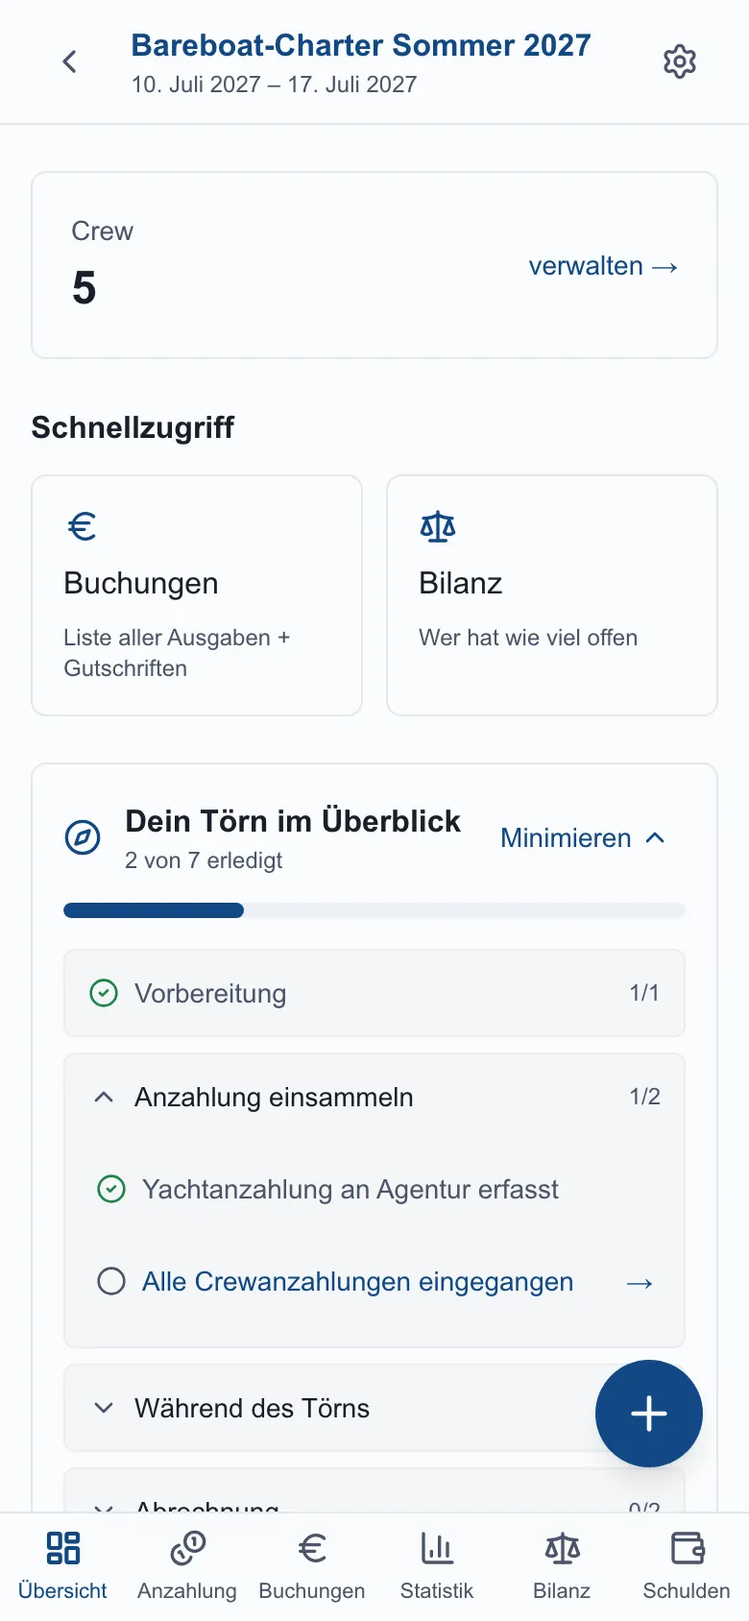
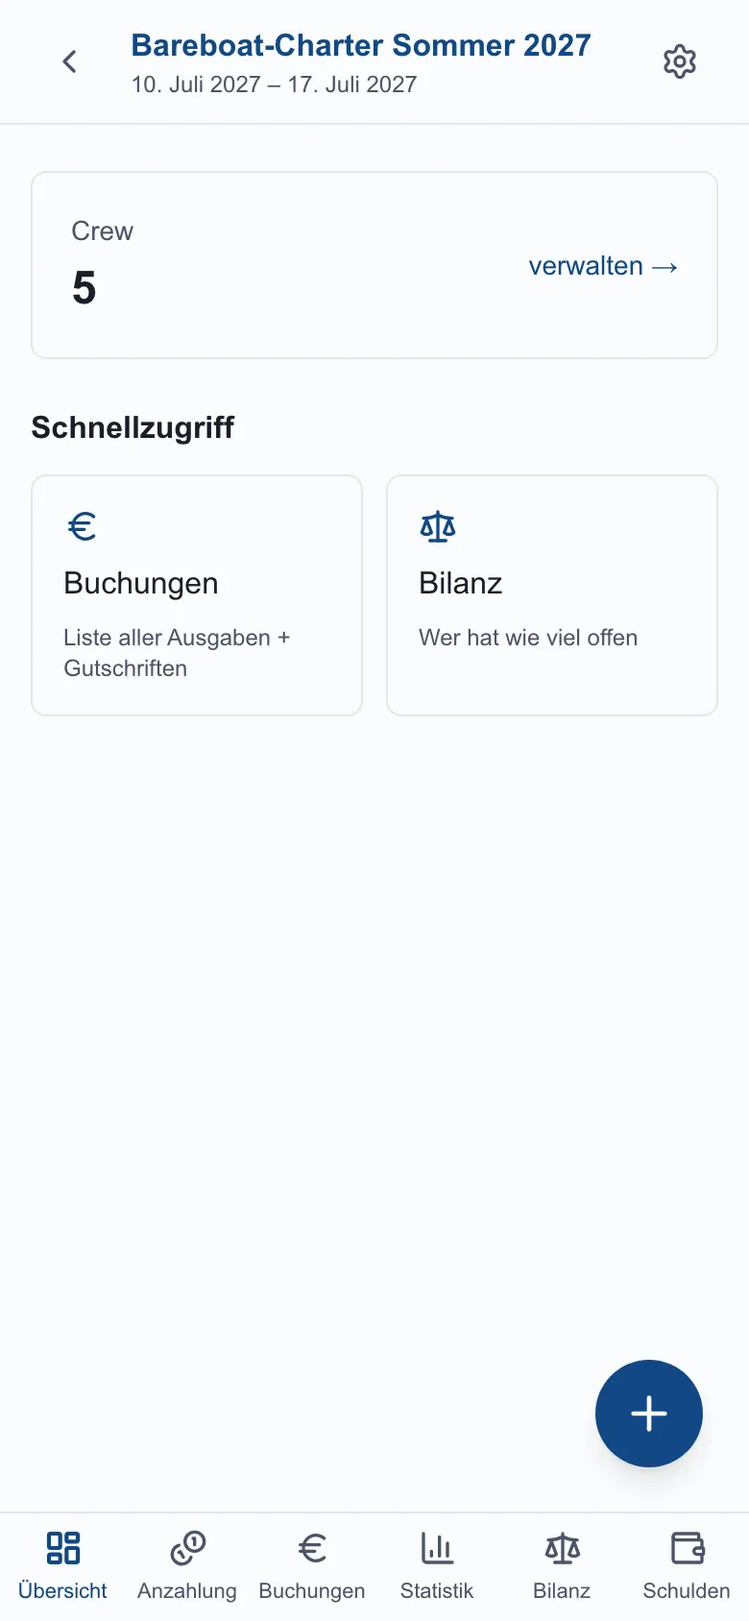
Begriff „Agentur" → „Vercharterer"; /about-Screenshots neu + Crew-Sicht (#161)
- Empfänger der Yachtanzahlung durchgängig als „Vercharterer" benannt
  (Törn-Fortschritt-Checkliste, /about, Bilanz-Info, Anzahlungs-Matrix-
  Tooltips, Charter-Reminder-Mail) inkl. Doku-Sync (CLAUDE.md, README,
  docs/prepayments.md). Interne Code-Identifier (*_agency) unverändert.
- /about-Screenshot „Startseite des Törns" (04) jetzt aus Crew-Sicht
  (Clara) → ohne die skipper-only Karte „Dein Törn im Überblick".
- About-Screenshots neu aufgenommen (04, 18 + date-/seed-getriebene Re-Renders).
- Lead-Text „Startseite des Törns" an die echte Crew-Ansicht angepasst
  (Schnellzugriff = Buchungen + Bilanz, Rest über die Navigationsleiste).

diff --git a/webapp/lib/email/charter-reminder-template.ts b/webapp/lib/email/charter-reminder-template.ts
@@ -1,13 +1,13 @@
 /**
  * Mail an den Vorstrecker — Erinnerung an die ANSTEHENDE eigene Überweisung
- * an die Charteragentur. Wird ausgelöst entweder vom Cron (3 Tage vor
+ * an den Vercharterer. Wird ausgelöst entweder vom Cron (3 Tage vor
  * Charter-Fälligkeit) oder manuell vom 🔔-Button in seiner Matrix-Zeile.
  *
  * Per Tranche zeigen wir:
- *   - Soll (Charteragentur)         = totalAmount × percent / 100
- *   - Crewbeiträge bei mir         = was die Crew bisher gezahlt hat
- *   - Bereits an Agentur überwiesen = expense-Buchung mit dieser Tranche
- *   - Noch offen                    = soll − bereits überwiesen
+ *   - Soll (Vercharterer)              = totalAmount × percent / 100
+ *   - Crewbeiträge bei mir            = was die Crew bisher gezahlt hat
+ *   - Bereits an Vercharterer überwiesen = expense-Buchung mit dieser Tranche
+ *   - Noch offen                       = soll − bereits überwiesen
  *
  * Layout über `mail-shell.ts`.
  */
@@ -17,10 +17,10 @@ import { renderMailShell, renderActionButton, renderHintBlock, escapeHtml, fmtEu
 export type CharterReminderTranche = {
   label: string;
   charter_due_date: string;        // formatiert "15.07.2026"
-  soll_to_agency: number;          // Soll der Agentur (für diese Tranche)
+  soll_to_agency: number;          // Soll des Vercharterers (für diese Tranche)
   crew_paid_to_advancer: number;   // Σ Crewbeiträge bei dir
   crew_total_due: number;          // Σ Crewsoll (zum Vergleich)
-  paid_to_agency: number;          // schon an Agentur überwiesen
+  paid_to_agency: number;          // schon an Vercharterer überwiesen
   remaining_to_agency: number;     // noch offen
 };
 
@@ -44,8 +44,8 @@ export function renderCharterReminderMail(p: CharterReminderParams): {
     : `Charteranzahlung – Übersicht: ${p.tripName}`;
   const headline = p.isAutomated ? "Charteranzahlung steht an" : "Charteranzahlung – Übersicht";
   const introText = p.isAutomated
-    ? `in den nächsten Tagen wird deine Anzahlung an die Charteragentur fällig. Hier eine Übersicht, was bei dir ankommt und was du noch überweisen musst.`
-    : `hier dein aktueller Stand für die Anzahlung an die Charteragentur: was bei dir ankommt und was du noch überweisen musst.`;
+    ? `in den nächsten Tagen wird deine Anzahlung an den Vercharterer fällig. Hier eine Übersicht, was bei dir ankommt und was du noch überweisen musst.`
+    : `hier dein aktueller Stand für die Anzahlung an den Vercharterer: was bei dir ankommt und was du noch überweisen musst.`;
 
   const trancheRows = p.tranches
     .map((t) => {
@@ -65,7 +65,7 @@ export function renderCharterReminderMail(p: CharterReminderParams): {
                     </div>
                     <table role="presentation" width="100%" cellpadding="0" cellspacing="0" border="0" style="margin-top:6px;font-size:13px;">
                       <tr>
-                        <td style="padding:2px 0;color:#587EA8;">Soll Agentur:</td>
+                        <td style="padding:2px 0;color:#587EA8;">Soll Vercharterer:</td>
                         <td style="padding:2px 0;text-align:right;font-weight:600;">${fmtEuro(t.soll_to_agency)}</td>
                       </tr>
                       <tr>
@@ -73,7 +73,7 @@ export function renderCharterReminderMail(p: CharterReminderParams): {
                         <td style="padding:2px 0;text-align:right;">${fmtEuro(t.crew_paid_to_advancer)} <span style="color:#587EA8;">von ${fmtEuro(t.crew_total_due)}</span></td>
                       </tr>
                       <tr>
-                        <td style="padding:2px 0;color:#587EA8;">An Agentur überwiesen:</td>
+                        <td style="padding:2px 0;color:#587EA8;">An Vercharterer überwiesen:</td>
                         <td style="padding:2px 0;text-align:right;">${fmtEuro(t.paid_to_agency)}</td>
                       </tr>
                       <tr>
@@ -121,13 +121,13 @@ export function renderCharterReminderMail(p: CharterReminderParams): {
             </tr>
 ${renderActionButton(p.appUrl, "In der Bordkasse ansehen")}
 ${renderHintBlock(
-  "Sobald du an die Agentur überwiesen hast, erfasse die Überweisung als neue Ausgabe und ordne sie der passenden Tranche zu, sie taucht dann hier korrekt an.",
+  "Sobald du an den Vercharterer überwiesen hast, erfasse die Überweisung als neue Ausgabe und ordne sie der passenden Tranche zu, sie taucht dann hier korrekt an.",
 )}`;
 
   const html = renderMailShell({
     title: subject,
     preheader: totalRemaining > 0.005
-      ? `Noch ${fmtEuro(totalRemaining)} an die Charteragentur überweisen — ${p.tripName}`
+      ? `Noch ${fmtEuro(totalRemaining)} an den Vercharterer überweisen — ${p.tripName}`
       : `Alle Charteranzahlungen für ${p.tripName} sind vollständig überwiesen.`,
     subtitle: p.tripName,
     body,
@@ -137,9 +137,9 @@ ${renderHintBlock(
     .map(
       (t) =>
         `  - ${t.label} (Charterfrist ${t.charter_due_date}):
-      Soll Agentur:      ${fmtEuro(t.soll_to_agency)}
-      Crew bei dir:      ${fmtEuro(t.crew_paid_to_advancer)} von ${fmtEuro(t.crew_total_due)}
-      An Agentur:        ${fmtEuro(t.paid_to_agency)}
+      Soll Vercharterer:  ${fmtEuro(t.soll_to_agency)}
+      Crew bei dir:       ${fmtEuro(t.crew_paid_to_advancer)} von ${fmtEuro(t.crew_total_due)}
+      An Vercharterer:    ${fmtEuro(t.paid_to_agency)}
       NOCH ZU ÜBERWEISEN: ${fmtEuro(Math.max(0, t.remaining_to_agency))}`,
     )
     .join("\n\n");

diff --git a/webapp/scripts/take-screenshots.ts b/webapp/scripts/take-screenshots.ts
@@ -247,16 +247,13 @@ async function main() {
   console.log(`  ↳ Pfingst-Törn: ${tripId}`);
   console.log(`  ↳ Bareboat-Charter: ${tripCharterId}`);
 
-  // Trip-Übersicht bewusst vom Bareboat-Charter (Zukunft, läuft noch nicht):
-  // In der About-Flow-Reihenfolge steht die Übersicht früh (direkt nach
-  // „Trip anlegen"), da wäre der „Törn vorbei — Abrechnung verschicken"-Banner
-  // des bereits beendeten Pfingst-Törns verfrüht. Der Settlement-/Abrechnungs-
-  // Banner wird stattdessen im Schulden-Screenshot (08) gezeigt, der in der
-  // Abrechnungs-Phase sitzt.
-  console.log("→ Trip-Übersicht (Bareboat — Törn läuft noch)");
-  await page.goto(`${BASE_URL}/trips/${tripCharterId}`);
-  await waitForLoad(page);
-  await shot(page, "04-trip-overview");
+  // Hinweis: Screenshot „04-trip-overview" (Startseite des Törns) wird bewusst
+  // aus der CREW-Sicht (Clara, reguläres Mitglied) aufgenommen — siehe
+  // Clara-Block weiter unten. So zeigt die /about-Seite die Übersicht OHNE die
+  // skipper-only Karte „Dein Törn im Überblick" (die separat als Screenshot 18
+  // erscheint). Bewusst der Bareboat-Charter (Zukunft, läuft noch nicht), damit
+  // kein verfrühter „Törn vorbei — Abrechnung verschicken"-Banner auftaucht;
+  // der Settlement-Banner wird stattdessen im Schulden-Screenshot (08) gezeigt.
 
   console.log("→ Buchungs-Liste");
   await page.goto(`${BASE_URL}/trips/${tripId}/transactions`);
@@ -384,6 +381,26 @@ async function main() {
   console.log("→ Crew-Self-View — Re-Login als Clara");
   await logout(page, context);
   await loginAs(page, CREW_EMAIL);
+
+  // Startseite des Törns aus CREW-Sicht: reguläre Crewmitglieder sehen die
+  // Karte „Dein Törn im Überblick" NICHT (Skipper/Co-Skipper/Admin-only). Die
+  // Übersicht bleibt damit auf Header + Schnellzugriff-Kacheln beschränkt —
+  // genau das soll die /about-Seite für „Startseite des Törns" zeigen.
+  console.log("→ Startseite des Törns (Crew-Ansicht, ohne Törn-Fortschritt-Karte)");
+  await page.goto(`${BASE_URL}/trips/${tripCharterId}`);
+  await waitForLoad(page);
+  // PWA-Installations-Hinweis ausblenden (steht schon auf dem Welcome-Screenshot).
+  await page.evaluate(() => {
+    document.querySelectorAll('aside[role="note"]').forEach((el) => {
+      if (/installier/i.test(el.textContent ?? "")) {
+        (el as HTMLElement).style.display = "none";
+      }
+    });
+  });
+  await page.waitForTimeout(150);
+  await shot(page, "04-trip-overview");
+
+  console.log("→ Crew-Self-View — Anzahlungen");
   await page.goto(`${BASE_URL}/trips/${tripCharterId}/prepayments`);
   await waitForLoad(page);
   await shot(page, "17-anzahlung-crew-self");

diff --git a/webapp/app/api/cron/prepayment-reminders/route.ts b/webapp/app/api/cron/prepayment-reminders/route.ts
@@ -13,7 +13,7 @@ import { CREW_DUE_DAYS_BEFORE_CHARTER, addDays } from "@/lib/prepayments/dates";
  *                       Tranche. Vorstrecker wird übersprungen (eigene Mail).
  *
  *   - "advancer_3d"  → 3 Tage vor Charter-Fälligkeit (= echtes due_date in 3 Tagen)
- *                       an den Vorstrecker — nur wenn er der Agentur noch was
+ *                       an den Vorstrecker — nur wenn er dem Vercharterer noch was
  *                       schuldet. Hat er die Tranche bereits voll überwiesen,
  *                       wird übersprungen.
  *
@@ -82,7 +82,7 @@ export async function GET(request: NextRequest) {
   // Bulk-Load: alles für die betroffenen Trips/Tranchen parallel.
   // - confirmed payments aus v_prepayment_payments (für Soll-vs-Ist der Crew)
   // - pending self-reports aus v_prepayment_pending (zählen als "Person hat gemeldet")
-  // - charter expenses (Vorstrecker → Agentur) für advancer-skip
+  // - charter expenses (Vorstrecker → Vercharterer) für advancer-skip
   const [
     { data: trips },
     { data: plans },
@@ -155,7 +155,7 @@ export async function GET(request: NextRequest) {
     }
   }
 
-  // Wie viel hat der Vorstrecker schon an die Agentur überwiesen — pro Tranche?
+  // Wie viel hat der Vorstrecker schon an den Vercharterer überwiesen — pro Tranche?
   const paidToAgencyByTranche = new Map<string, number>();
   for (const e of charterExpenses ?? []) {
     if (e.tranche_id) {
@@ -186,7 +186,7 @@ export async function GET(request: NextRequest) {
     // Wie viele Tage sind es noch bis zur Charterfrist?
     const daysToCharter = daysBetween(todayIso, t.due_date);
 
-    // advancer_3d: ab 3 Tage vor Charterfrist UND nur wenn er der Agentur noch was schuldet
+    // advancer_3d: ab 3 Tage vor Charterfrist UND nur wenn er dem Vercharterer noch was schuldet
     if (daysToCharter <= REMINDER_DAYS_BEFORE) {
       const sollAgency = (Number(plan.total_amount) * Number(t.percent)) / 100;
       const paidAgency = paidToAgencyByTranche.get(t.id) ?? 0;

diff --git a/webapp/app/trips/[id]/balance/page.tsx b/webapp/app/trips/[id]/balance/page.tsx
@@ -57,7 +57,7 @@ export default async function BalancePage({
         {hasPlan && (
           <InfoTooltip
             label="Bilanzblöcke erklärt"
-            text="Diese Bilanz hat zwei Töpfe: „Anzahlung“ ist das Geld für die Yachtcharter, das vorab an die Agentur gezahlt wird. „Bordkasse“ sind die laufenden Kosten während des Törns (Sprit, Hafen, Essen). „Gesamt“ fasst beide zusammen. Das ist unterm Strich dein Saldo."
+            text="Diese Bilanz hat zwei Töpfe: „Anzahlung“ ist das Geld für die Yachtcharter, das vorab an den Vercharterer gezahlt wird. „Bordkasse“ sind die laufenden Kosten während des Törns (Sprit, Hafen, Essen). „Gesamt“ fasst beide zusammen. Das ist unterm Strich dein Saldo."
           />
         )}
       </h1>
@@ -101,7 +101,7 @@ function PrepaymentsSummary({
   tripId: string;
   poolBalances: PrepaymentPoolBalance[];
   nameById: Map<string, string>;
-  /** Gesamt-Anzahlungssumme aus dem Plan (= Charter-Preis ggü. Agentur). */
+  /** Gesamt-Anzahlungssumme aus dem Plan (= Charter-Preis ggü. Vercharterer). */
   planTotal: number;
   /** Σ aller Charter-Überweisungen (Vorstrecker → Vercharterer). */
   charterPaid: number;
@@ -111,7 +111,7 @@ function PrepaymentsSummary({
   const sumPaid = poolBalances.reduce((s, p) => s + Math.min(p.paid, p.soll), 0);
   const sumOpen = Math.max(0, sumSoll - sumPaid);
 
-  // Charterauslage: was wurde an die Agentur überwiesen vs. Soll
+  // Charterauslage: was wurde an den Vercharterer überwiesen vs. Soll
   const charterSoll = planTotal;
   const charterOpen = Math.max(0, charterSoll - charterPaid);
   const charterFulfilled = charterSoll > 0 && charterOpen <= 0.005;

diff --git a/webapp/app/about/page.tsx b/webapp/app/about/page.tsx
@@ -97,7 +97,7 @@ const features: Feature[] = [
   {
     id: "trip-overview",
     title: "Startseite des Törns",
-    lead: "Pro Törn ein eigener Bereich: Schnellzugriff auf Buchungen, Bilanz, Anzahlungen und Schulden.",
+    lead: "Pro Törn ein eigener Bereich mit Crew-Überblick und Schnellzugriff auf Buchungen und Bilanz; alle weiteren Bereiche sind über die feste Navigationsleiste erreichbar.",
     body: (
       <>
         <p>
@@ -319,7 +319,7 @@ const features: Feature[] = [
   {
     id: "anzahlung-setup",
     title: "Yachtanzahlung: Plan einrichten",
-    lead: "Wenn der Skipper Monate vor dem Törn die Charteranzahlung an die Agentur leistet, hilft die App, das Geld bei der Crew einzusammeln.",
+    lead: "Wenn der Skipper Monate vor dem Törn die Charteranzahlung an den Vercharterer leistet, hilft die App, das Geld bei der Crew einzusammeln.",
     body: (
       <>
         <p>
@@ -370,7 +370,7 @@ const features: Feature[] = [
         </p>
         <p className="mt-2">
           Daneben sieht die vorstreckende Person eine Übersicht, was sie noch an den
-          Charteranbieter überweisen muss, basierend auf dem, was die
+          Vercharterer überweisen muss, basierend auf dem, was die
           Crew schon bei ihr eingezahlt hat. 3 Tage vor jeder
           Charterfrist verschickt die App diese Übersicht zusätzlich
           per Mail; 3 Tage vor der Crewfrist gehen automatisch

diff --git a/webapp/app/trips/[id]/prepayments/matrix.tsx b/webapp/app/trips/[id]/prepayments/matrix.tsx
@@ -146,7 +146,7 @@ export function PrepaymentMatrix({ tripId, tripName, plan, tranches, cabins, mem
     ? members.find((m) => m.id === plan.advancer_person_id)?.display_name ?? "—"
     : null;
 
-  // Wie viel muss der Vorstrecker insgesamt noch an die Agentur überweisen?
+  // Wie viel muss der Vorstrecker insgesamt noch an den Vercharterer überweisen?
   // Steuert den 🔔-Button in seiner Zeile (Mail nur sinnvoll wenn offen).
   const charterOutstanding = tranches.reduce((sum, t) => {
     const soll = (plan.total_amount * t.percent) / 100;
@@ -528,8 +528,8 @@ function RowActions({
     ? !member.email
       ? "Für die vorstreckende Person ist keine E-Mail hinterlegt"
       : advancerNothingOpen
-        ? "Alles an die Agentur überwiesen, keine Erinnerung nötig"
-        : "Charterübersicht an dich selbst schicken (Σ Creweingänge / Soll Agentur / noch zu überweisen)"
+        ? "Alles an den Vercharterer überwiesen, keine Erinnerung nötig"
+        : "Charterübersicht an dich selbst schicken (Σ Creweingänge / Soll Vercharterer / noch zu überweisen)"
     : !member.email
       ? "E-Mail fehlt"
       : rowOpen <= 0.005

diff --git a/webapp/lib/email/send-prepayment-reminder.ts b/webapp/lib/email/send-prepayment-reminder.ts
@@ -4,7 +4,7 @@
  * Zwei Pfade:
  *   1. Crew-Pfad      → persönliche Tranchen-Liste mit Wero-Hinweis
  *                       (Empfänger ≠ Vorstrecker).
- *   2. Vorstrecker-Pfad → Charterübersicht (Soll Agentur / Creweingänge /
+ *   2. Vorstrecker-Pfad → Charterübersicht (Soll Vercharterer / Creweingänge /
  *                         schon überwiesen / noch offen) pro Tranche.
  *                         Wird auch vom Cron benutzt.
  *
@@ -239,7 +239,7 @@ async function sendCharterReminder(
     .filter((o) => o.person_id !== args.advancerPersonId)
     .reduce((s, o) => s + Number(o.total_amount), 0);
 
-  // Σ schon-an-Agentur-überwiesen pro Tranche (expense mit dieser tranche_id).
+  // Σ schon-an-Vercharterer-überwiesen pro Tranche (expense mit dieser tranche_id).
   const { data: expenseRows } = await supabase
     .from("transactions")
     .select("tranche_id, amount")

diff --git a/webapp/lib/queries/prepayments.ts b/webapp/lib/queries/prepayments.ts
@@ -139,7 +139,7 @@ export interface PaymentEntry {
  *   - für normale Crew:  Σ credit_given mit tranche_id (Zahlung an Vorstrecker)
  *   - für Vorstrecker:   Σ self_credit (Selbstverrechnung des eigenen Anteils)
  *
- * Charterauslagen (`paid_by` mit tranche_id, typisch Vorstrecker → Agentur)
+ * Charterauslagen (`paid_by` mit tranche_id, typisch Vorstrecker → Vercharterer)
  * zählen NICHT in `paid` — sie sind kein „Beitrag zum Crew-Pool", sondern
  * eine separate Bewegung „Geld aus Pool an Vercharterer". Wird in einem
  * eigenen Block angezeigt (siehe getCharterPaidTotal).

diff --git a/webapp/app/trips/[id]/layout.tsx b/webapp/app/trips/[id]/layout.tsx
@@ -28,7 +28,7 @@ export default async function TripLayout({
 
   // Kontextuelle Anzahlungs-Navigation: nur einblenden, solange der Eintrag
   // für diese Person gerade relevant ist (eigene/Crew-Tranche offen,
-  // Pending-Selbstmeldung oder Vorstrecker schuldet der Agentur noch).
+  // Pending-Selbstmeldung oder Vorstrecker schuldet dem Vercharterer noch).
   const isMyTripSkipper = !!members.find((m) => m.person_id === person?.id)?.is_skipper;
   const { show: showPrepayments } = await getPrepaymentNavState(id, {
     personId: person?.id ?? null,

diff --git a/webapp/lib/calc/trip-progress.ts b/webapp/lib/calc/trip-progress.ts
@@ -132,7 +132,7 @@ export function computeTripProgress(
     const anzahlungItems: ProgressItem[] = [
       {
         id: "charter-advance",
-        label: "Yachtanzahlung an Agentur erfasst",
+        label: "Yachtanzahlung an Vercharterer erfasst",
         status: statusFor(s.charterAdvancePaid, idx("anzahlung"), unlockedUpTo),
         href: "prepayments",
       },

diff --git a/webapp/lib/prepayments/dates.ts b/webapp/lib/prepayments/dates.ts
@@ -2,7 +2,7 @@
  * Datum-Helpers für das Anzahlungs-Modul.
  *
  * Konvention: `prepayment_tranches.due_date` ist das Charter-Fälligkeits-
- * Datum (Vorstrecker → Agentur). Die Crew bekommt einen 3-Tage-Puffer
+ * Datum (Vorstrecker → Vercharterer). Die Crew bekommt einen 3-Tage-Puffer
  * davor, damit der Vorstrecker das Geld rechtzeitig zusammen hat.
  */
 

diff --git a/CLAUDE.md b/CLAUDE.md
@@ -288,17 +288,17 @@ Schriften: Campton Bold (Display) → Arial Bold (H2) → Arial Regular (Body).
 - **Explizite Data-API-GRANTs (Migration 0022):** Supabase deprecatet ab 30.10.2026 die automatischen `GRANT`s auf neue Tabellen im public-Schema. Migration `0022_explicit_grants.sql` setzt deshalb für alle bestehenden Tabellen/Views/`simplify_debts()` explizite `GRANT … TO authenticated` und definiert via `ALTER DEFAULT PRIVILEGES` Defaults für künftige Tabellen. **Konsequenz für neue Migrationen:** `CREATE TABLE foo …` reicht aus, der GRANT kommt automatisch — kein manuelles `GRANT` pro Migration nötig. RLS-Policies aus 0004 filtern weiterhin pro Row.
 - **Anzahlungs-Modul** (Migrationen 0023–0028, Spec `docs/prepayments.md`): Mechanik für Yachtanzahlungen, die der Skipper Monate vor Törn-Start an die Charteragentur leistet und sich von der Crew rückerstatten lässt.
   - **Wizard** unter `/trips/[id]/prepayments/setup` (zwei Schritte): Aufteilung (`gleichmaessig` / `zeitanteilig` / `individuell` / `kojen`) + Vorstrecker-Auswahl + optional Kojen-Editor + WhatsApp-Vorlage; Schritt 2 = Tranchen-Liste mit Fälligkeit + Prozent (Σ = 100). Crew kann inline im Wizard angelegt werden (`CrewQuickAdd`). **Tranchen-Bezeichnung wird automatisch durchnummeriert** (`trancheLabel(index, total)` → alle bis auf die letzte „N. Anzahlung", die letzte „Endzahlung"; bei 1 Tranche → „Endzahlung") — kein freies Label-Feld mehr (schlankeres Design); das Label wird beim Speichern abgeleitet und in `prepayment_tranches.label` geschrieben. **Validierung:** „Weiter" (Schritt 1) ist bei Gesamtsumme 0 deaktiviert (für `gleichmaessig`/`zeitanteilig`), „Fertig stellen" (Schritt 2) bei Σ % ≠ 100. Editor-Zeilen stapeln auf Mobile (`grid-cols-1 sm:grid-cols-12`).
-  - **Matrix** unter `/trips/[id]/prepayments`: Person × Tranche mit Statussymbolen (○ offen, ◐ teilweise, ✓ bezahlt, ⏰ überfällig, ⏳ pending). Klick auf Zelle → Modal zur Zahlungs-Erfassung mit Überzahlungs-Splitting auf zweite Tranche. Pro Person-Zeile 🔔 (Erinnerungs-Mail) und 💬 (WhatsApp-Text). Sammelnachricht-Button oben. Charter-Reminder-Banner für den Vorstrecker zeigt, was er an die Agentur noch überweisen muss (mit Überfälligkeits-Indikator). Vorstrecker-Zeile trägt blaues „Streckt vor"-Badge, Bell/WhatsApp-Buttons sind in dieser Zeile deaktiviert.
+  - **Matrix** unter `/trips/[id]/prepayments`: Person × Tranche mit Statussymbolen (○ offen, ◐ teilweise, ✓ bezahlt, ⏰ überfällig, ⏳ pending). Klick auf Zelle → Modal zur Zahlungs-Erfassung mit Überzahlungs-Splitting auf zweite Tranche. Pro Person-Zeile 🔔 (Erinnerungs-Mail) und 💬 (WhatsApp-Text). Sammelnachricht-Button oben. Charter-Reminder-Banner für den Vorstrecker zeigt, was er an den Vercharterer noch überweisen muss (mit Überfälligkeits-Indikator). Vorstrecker-Zeile trägt blaues „Streckt vor"-Badge, Bell/WhatsApp-Buttons sind in dieser Zeile deaktiviert.
   - **Vorstrecker:** wer streckt die Yachtanzahlung vor (Default = Trip-Skipper, im Wizard editierbar). _Sprachregelung:_ „Vorstrecker" ist der interne Konzept-Name (Code-Identifier `advancer_*`, `requireSkipperAdminOrAdvancer`); in **Endnutzer-Texten (UI/Mail)** wird die Rolle geschlechtsneutral formuliert — Badge „Streckt vor", sonst „die vorstreckende Person" bzw. Verb „vorstrecken". Migration 0024 relaxed `tx_credit_self` für tranche-getaggte Credits, damit der Vorstrecker seinen eigenen Anteil als Selbst-Verrechnung abhaken kann (bilanzneutral). Der Vorstrecker darf abhaken, bestätigen, ablehnen und Erinnerungen verschicken — auch wenn er nicht Trip-Skipper ist (`requireSkipperAdminOrAdvancer` in `lib/auth/authz.ts`).
   - **Phase 2 — Crew-Selbstmeldung** (Migration 0025): Crew klickt in `/prepayments` „Ich habe gezahlt" → Eintrag mit `transactions.confirmed_at = NULL` (= pending). Vorstrecker bekommt eine Mail (`payment-pending-template.ts`) und sieht in der Matrix einen gelben Pending-Banner mit ✓ / ✗ Buttons. Der Banner-Eintrag zeigt nur „X hat Y € für N. Anzahlung gemeldet" + Datum — die Buchungs-Beschreibung wird bewusst NICHT angezeigt (redundant + teils irreführende Seed-/Default-Texte). Erst bei Bestätigung zählt der Eintrag in `v_prepayment_payments`. `transactions.confirmed_at` hat `DEFAULT now()` — normale Skipper-/Admin-Eingaben sind sofort bestätigt, nur `submitSelfPayment` schreibt explizit NULL.
-  - **Crew-Fälligkeit 3 Tage vor Charter:** `prepayment_tranches.due_date` ist die Charter-Fälligkeit (gegenüber Agentur). Überall, wo die Crew die Frist sieht (Matrix-Header, Crew-Self-View, Erinnerungs-Mail, WhatsApp), wird über `toCrewDueDate()` in `lib/prepayments/dates.ts` ein 3-Tage-Puffer abgezogen. Der Charter-Reminder-Banner zeigt weiterhin das echte Datum. `toCrewDueDate` **clampt** zusätzlich: die Crewfrist rutscht nicht in die Vergangenheit, solange die Charterfrist noch aussteht, und liegt nie nach der Charterfrist selbst (`today` als Parameter überschreibbar für deterministische Tests).
+  - **Crew-Fälligkeit 3 Tage vor Charter:** `prepayment_tranches.due_date` ist die Charter-Fälligkeit (gegenüber Vercharterer). Überall, wo die Crew die Frist sieht (Matrix-Header, Crew-Self-View, Erinnerungs-Mail, WhatsApp), wird über `toCrewDueDate()` in `lib/prepayments/dates.ts` ein 3-Tage-Puffer abgezogen. Der Charter-Reminder-Banner zeigt weiterhin das echte Datum. `toCrewDueDate` **clampt** zusätzlich: die Crewfrist rutscht nicht in die Vergangenheit, solange die Charterfrist noch aussteht, und liegt nie nach der Charterfrist selbst (`today` als Parameter überschreibbar für deterministische Tests).
   - **Bilanz Drei-Block-Übersicht** (in `/trips/[id]/balance` wenn ein Plan existiert): Anzahlungs-Pool / Bordkasse / Gesamt pro Person. Anzahlungs-Saldo = aktiv_beigetragen − soll (pragmatisch, nicht double-entry: credit_to des Vorstreckers zählt NICHT negativ bei ihm, weil treuhänderisch). Bordkasse-Saldo kommt aus separater View `v_balances_bordkasse_only` (Migration 0026, filtered auf `tranche_id IS NULL`). Untere Tabelle ist konsistent: zeigt nur Bordkasse-Buchungen wenn ein Plan existiert.
   - **Crew-Wechsel-Workflow:** `replaceMember` in `lib/actions/prepayments.ts` legt neue Person an, überträgt Obligation + Anwesenheit + Koje, erzeugt Gegen-Gutschriften für die bereits geleisteten Anzahlungen (B zahlt A privat aus → A geht auf 0 €, B rutscht in A's Position). Ghost-Crew ohne E-Mail-Adresse möglich; bei nachträglich eingetragener E-Mail wird der Ghost automatisch in den bestehenden Account integriert (`mergeGhostIntoExistingPerson` in `lib/actions/trip-members.ts`), außer real und Ghost wären beide schon Crew des selben Trips — dann Block mit klarer Meldung.
   - **Tranche-Dropdown in normaler Buchungs-/Gutschrift-Form** (`webapp/app/trips/[id]/transactions/new/transaction-form.tsx`): optional eine Tranche zuordnen, dann landet die Buchung im Anzahlungs-Pool (taucht nicht im Bordkasse-Saldo auf). Die Yachtanzahlung wird so erfasst.
   - **Auto-Merge bei Crew-E-Mail-Kollision:** Wenn beim Inline-Edit einer Ghost-Crew eine E-Mail nachgetragen wird, die schon zu einem bestehenden Account gehört, mergt die Action den Ghost automatisch in den bestehenden Account (alle transactions, prepayment_obligations, trip_members, audit_log, settled_debts werden umgehängt). Pre-Check: ist die echte Person bereits Mitglied desselben Trips → Block mit Aufforderung, manuell aufzuräumen.
   - **A11y:** alle interaktiven Zellen tragen einen vollen Kontext-`aria-label` („Lucas, Endzahlung: bezahlt, 180,00 € von 180,00 € bezahlt"), Status-Emojis sind `aria-hidden="true"`. Pending-Banner ist `role="region"`. Touch-Targets ≥ 44px.
-  - **Charter-Reminder-Mail an Vorstrecker** (`charter-reminder-template.ts`): wenn der 🔔-Button in der Vorstrecker-Zeile geklickt wird, schickt die App eine Charter-Übersicht statt einer persönlichen Tranchen-Liste — pro Tranche Soll Agentur, Σ Crew-Eingänge bei mir, schon-überwiesen, noch offen. `send-prepayment-reminder.ts` routet zwischen Crew-Pfad und Vorstrecker-Pfad anhand von `personId === advancer_person_id`.
-  - **Auto-Reminder-Cron** (Migration 0028 + `/api/cron/prepayment-reminders`, in `vercel.json` als täglicher Cron `0 7 * * *` eingetragen): verschickt **innerhalb der letzten 6 Tage vor Charterfrist** eine Reminder-Mail an offene Crewmitglieder (`crew_3d`, ab 6 Tagen = 3 Tage vor Crewfrist) und **innerhalb der letzten 3 Tage** eine Charter-Übersicht an den Vorstrecker (`advancer_3d`). Fenster statt exakter Tag, damit ein verpasster Cron-Tag (Deploy, Outage) keinen Reminder verliert. Dedup über `prepayment_reminder_log(tranche_id, person_id, reminder_type)` — pro Kombi höchstens ein Eintrag. **Pending-Awareness:** Crewmitglieder mit unbestätigter Selbstmeldung (`v_prepayment_pending`) werden NICHT erneut gemahnt — sie haben ihren Teil getan und warten auf den Vorstrecker. **Advancer-Skip:** der Vorstrecker bekommt keine `advancer_3d`-Mail mehr, wenn er die Tranche bereits voll an die Agentur überwiesen hat. **Reject räumt Dedup-Log:** bei Ablehnung einer Selbstmeldung (`rejectSelfPayment`) wird der `crew_3d`-Log-Eintrag gelöscht, sodass der Cron einen korrigierten Reminder verschicken kann. Abgelaufene Trips übersprungen.
+  - **Charter-Reminder-Mail an Vorstrecker** (`charter-reminder-template.ts`): wenn der 🔔-Button in der Vorstrecker-Zeile geklickt wird, schickt die App eine Charter-Übersicht statt einer persönlichen Tranchen-Liste — pro Tranche Soll Vercharterer, Σ Crew-Eingänge bei mir, schon-überwiesen, noch offen. `send-prepayment-reminder.ts` routet zwischen Crew-Pfad und Vorstrecker-Pfad anhand von `personId === advancer_person_id`.
+  - **Auto-Reminder-Cron** (Migration 0028 + `/api/cron/prepayment-reminders`, in `vercel.json` als täglicher Cron `0 7 * * *` eingetragen): verschickt **innerhalb der letzten 6 Tage vor Charterfrist** eine Reminder-Mail an offene Crewmitglieder (`crew_3d`, ab 6 Tagen = 3 Tage vor Crewfrist) und **innerhalb der letzten 3 Tage** eine Charter-Übersicht an den Vorstrecker (`advancer_3d`). Fenster statt exakter Tag, damit ein verpasster Cron-Tag (Deploy, Outage) keinen Reminder verliert. Dedup über `prepayment_reminder_log(tranche_id, person_id, reminder_type)` — pro Kombi höchstens ein Eintrag. **Pending-Awareness:** Crewmitglieder mit unbestätigter Selbstmeldung (`v_prepayment_pending`) werden NICHT erneut gemahnt — sie haben ihren Teil getan und warten auf den Vorstrecker. **Advancer-Skip:** der Vorstrecker bekommt keine `advancer_3d`-Mail mehr, wenn er die Tranche bereits voll an den Vercharterer überwiesen hat. **Reject räumt Dedup-Log:** bei Ablehnung einer Selbstmeldung (`rejectSelfPayment`) wird der `crew_3d`-Log-Eintrag gelöscht, sodass der Cron einen korrigierten Reminder verschicken kann. Abgelaufene Trips übersprungen.
   - **Notice-Mails bei Admin-Aktionen** (`prepayment-notice-template.ts`, `sendPrepaymentNoticeMails` in `lib/actions/prepayments.ts`): wenn `recordPayment` / `confirmSelfPayment` / `rejectSelfPayment` von einer dritten Person (Admin/Co-Skipper) ausgelöst wird, gehen Info-Mails an Crew-Person + Vorstrecker (sofern der Actor nicht selbst Empfänger wäre). Self-Aktionen (Actor == Crew oder Actor == Vorstrecker) lösen keine Notice-Mail aus. Für Schulden-Häkchen (`sendDebtSettledMails`): bei Admin-Drittaktion bekommen Skipper UND Vorstrecker zusätzlich eine neutrale Observer-Mail, sofern sie nicht ohnehin Schuldner/Gläubiger sind.
 
 **Mail-Design einheitlich** über [`lib/email/mail-shell.ts`](webapp/lib/email/mail-shell.ts) — `renderMailShell` rendert Logo-PNG-Header + Card-Wrapper + Footer, Helper `renderActionButton`, `renderHintBlock`, `escapeHtml`, `fmtEuro`. Alle sieben Templates (settlement, debt-settled, debt-observer, prepayment-reminder, charter-reminder, payment-pending, prepayment-notice) nutzen dasselbe Shell. Wero-Hinweis-Text dynamisch: „Bitte schicke {Vorstrecker} per Wero die fällige Anzahlung" — keine Klick-Links (Wero hat keine öffentliche API), Wero-ID + Verwendungszweck als Pille zum manuellen Übernehmen.
